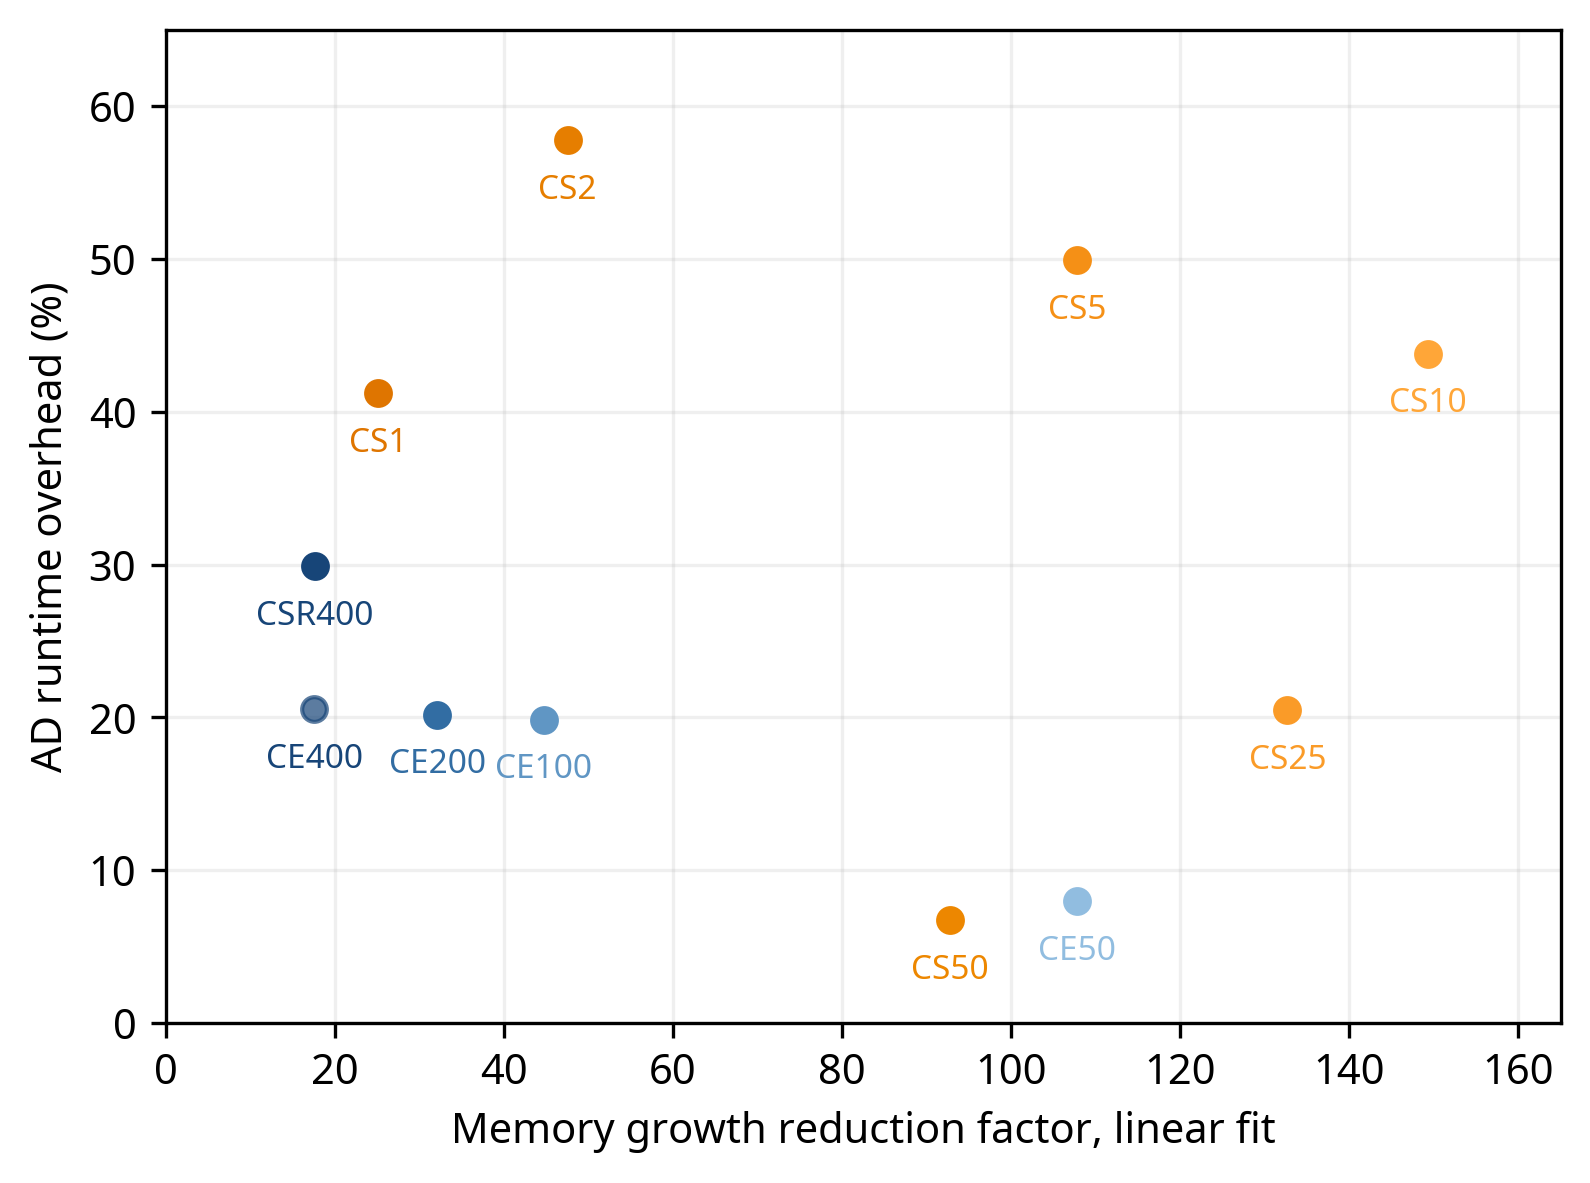
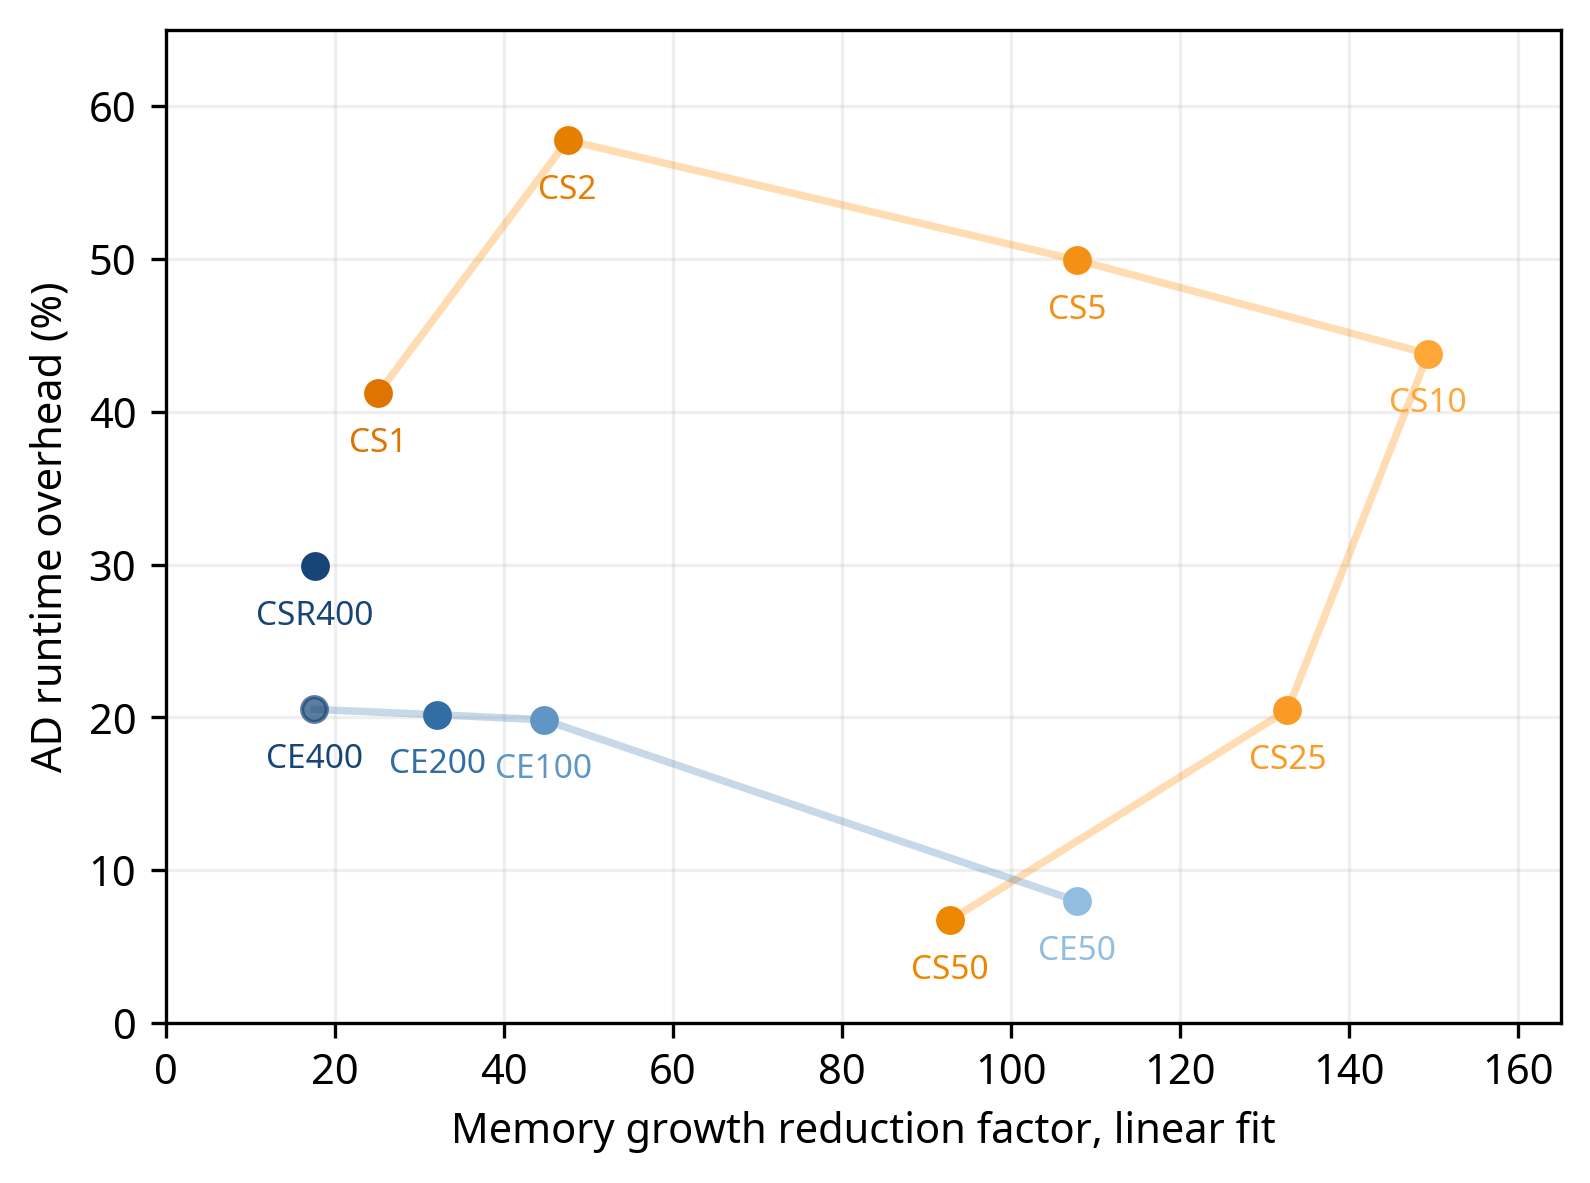
add retrograde lines to tradeoff plot

diff --git a/plot/memory_ckpt_vs_nw.py b/plot/memory_ckpt_vs_nw.py
@@ -328,6 +328,24 @@ ax.set_ylim(0, 65)
 ax.grid(alpha=0.2)
 ax.set_axisbelow(True)
 
+groups = {
+    "CS": ["CS1", "CS2", "CS5", "CS10", "CS25", "CS50"],
+    "CE": ["CE50", "CE100", "CE200", "CE400"],
+}
+
+for group, names in groups.items():
+    names = [n for n in names if n in reduction and n in sp]
+
+    ax.plot(
+        [reduction[n] for n in names],
+        [100 * (sp[n][-1] / baseline - 1) for n in names],
+        "-",
+        color="darkorange" if group == "CS" else "steelblue",
+        alpha=0.3,
+        linewidth=1.8,
+        zorder=1,
+    )
+
 plt.savefig(
     "plot/tradeoff-ckpt-nw.png",
     dpi=300,
